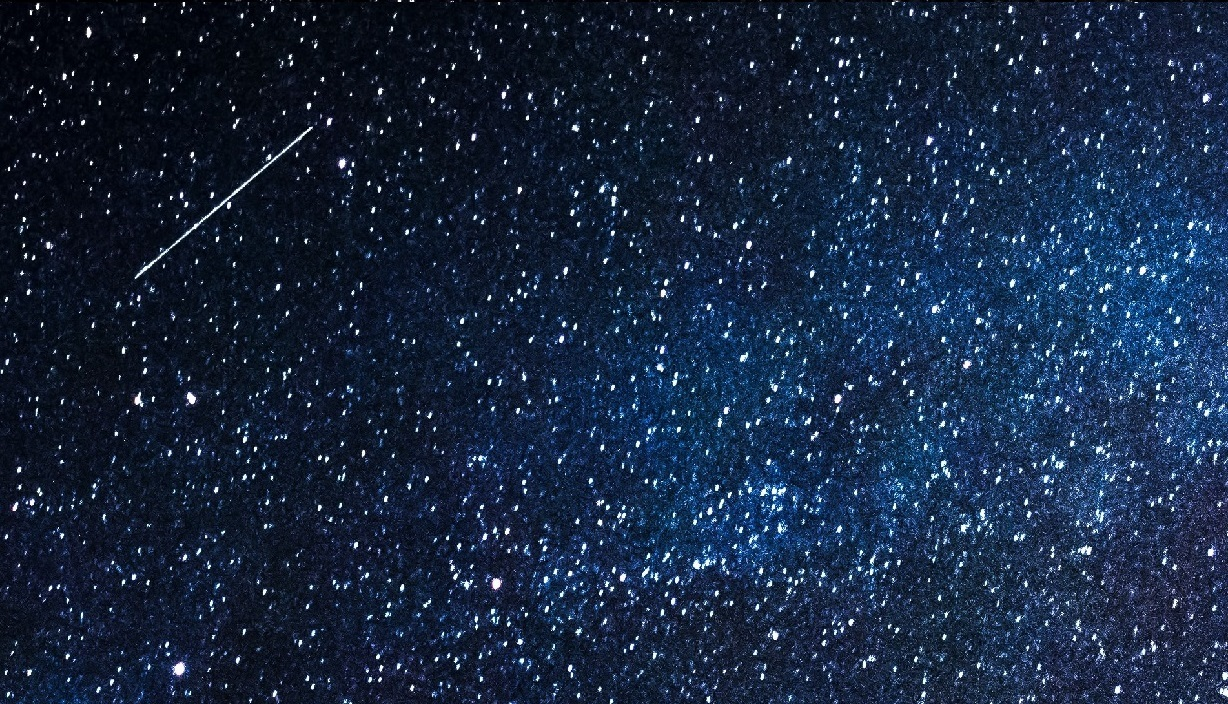
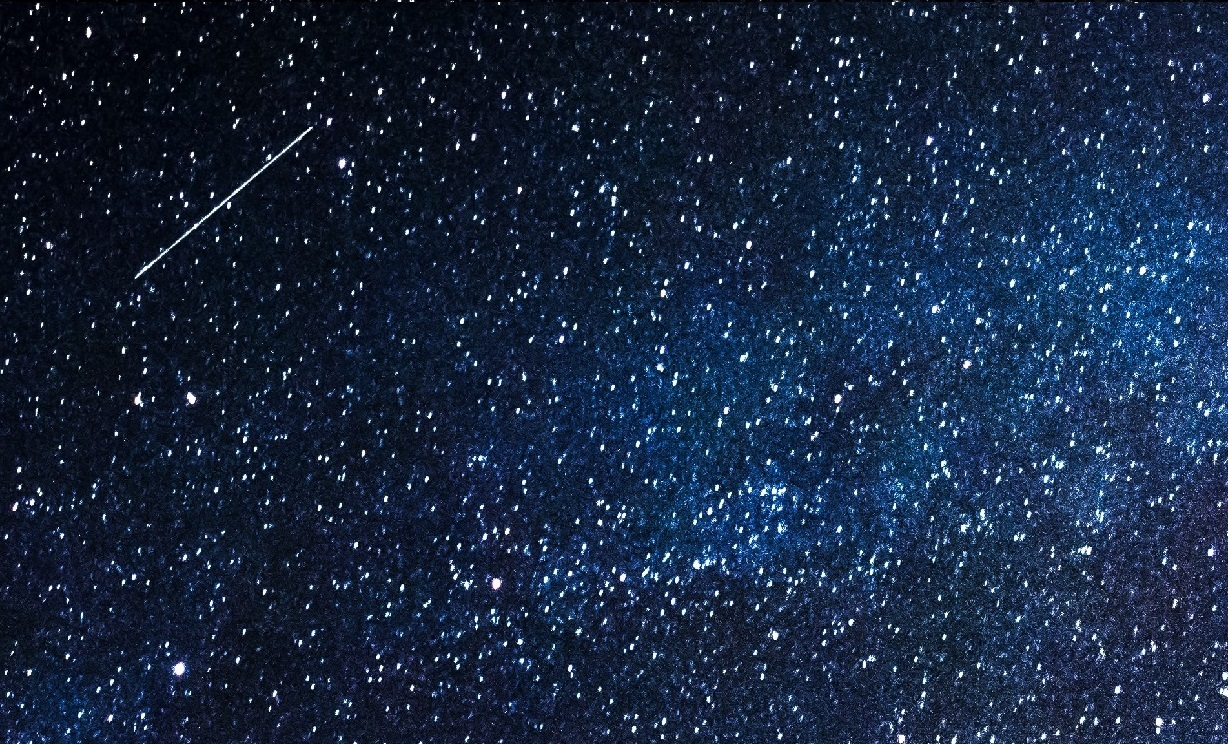
Updated

diff --git a/hainabilacantik.html b/hainabilacantik.html
@@ -9,25 +9,25 @@
     <meta name="author" content="Muhammad Hasan Z">
     <meta name="robots" content="all" />
     <meta name="googlebot" content="index, follow" />
-    <meta name="description"
-        content="Hai Nabila Cantik">
+    <meta name="description" content="Hai Nabila Cantik">
     <meta name="keywords" content="Hai Nabila Cantik" />
     <meta property="og:site_name" content="Hai Nabila Cantik" />
-    <meta property="og:image" content="https://www.muhammadhasanz.ml/static/img/hasan.jpg" />
+    <meta property="og:image" content="/static/img/hasan.jpg" />
     <meta property="og:image:width" content="240" />
     <meta property="og:image:height" content="90" />
     <meta property="og:type" content="website" />
     <meta property="og:title" content="Hai Nabila Cantik" />
     <meta property="og:description" content="By Hasan" />
-    <meta property="og:url" content="https://www.muhammadhasanz.ml/" />
+    <meta property="og:url" content="https://muhammadhasanz.ml/hainabilacantik" />
     <meta name="twitter:card" content="summary_large_image" />
     <meta name="twitter:site" content="@muhammadhasanz" />
     <meta name="twitter:title" content="Hai Nabila Cantik" />
     <meta name="twitter:description" content="By Hasan" />
     <meta name="theme-color" content="##878C9F">
 </head>
+
 <body style="background-color: black;">
-    
+
 </body>
 <Script>
     alert("hai Cantik");
@@ -43,4 +43,5 @@
     alert("uuhhh sayang");
     alert("maaciw:')");
 </Script>
+
 </html>

diff --git a/index.html b/index.html
@@ -19,9 +19,9 @@
   <meta property="og:type" content="website" />
   <meta property="og:title" content="Muhammad Hasan Z | Personal Official Website" />
   <meta property="og:description" content="Muhammad Hasan Z | Personal Official Website" />
-  <meta property="og:url" content="https://www.hasan.com/" />
+  <meta property="og:url" content="https://muhammadhasanz.ml/" />
   <meta name="twitter:card" content="summary_large_image" />
-  <meta name="twitter:site" content="@bozkurtprime" />
+  <meta name="twitter:site" content="@muhammadhasanz_" />
   <meta name="twitter:title" content="Muhammad Hasan Z" />
   <meta name="twitter:description" content="Muhammad Hasan Z | Personal Official Website" />
   <link href="static/plugin/font-awesome/css/fontawesome-all.min.css" rel="stylesheet">
@@ -41,7 +41,7 @@
   <link href='custom.css' rel='stylesheet' type='text/css'>
 </head>
 
-<body class="dark-body" style="background-image: url(static/img/Galaxy.jpg);">
+<body class="dark-body" style="background-image: url(static/img/31367.jpg);">
   <div id="loading">
     <div class="load"><span class="one">loading</span></div>
   </div>
